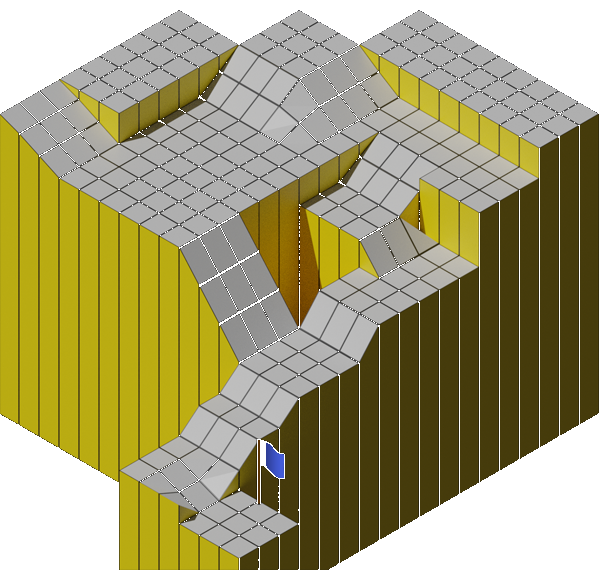
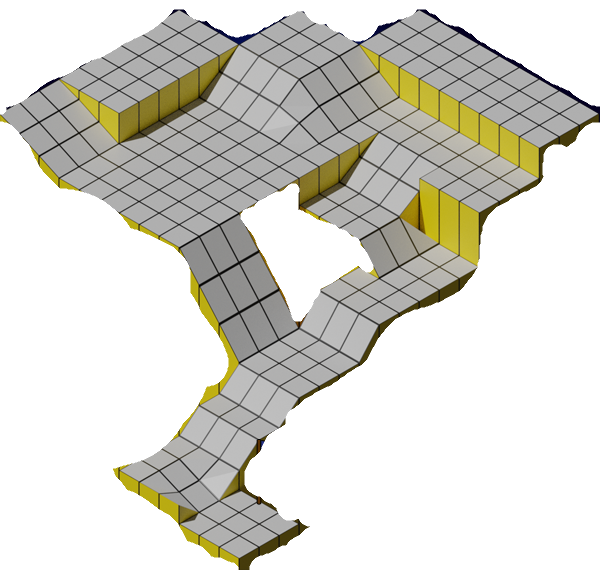
fix the out of bounces by making a new 3d map transparency

diff --git a/source-code-marble-madness/marble.py b/source-code-marble-madness/marble.py
@@ -1,6 +1,6 @@
 import pgzrun
 import pygame
-from pygame import image
+from pygame import image, mask
 from pgzero.builtins import Actor, keyboard, music, sounds
 
 # Initialize window size
@@ -19,8 +19,10 @@ marble = Actor('marble_still1', center=(300, 45))
 marbleh = Actor('marble_still1', center=(300, 60))
 marble.dir = marble.speed = 0
 
-# Load the 3D map as an actor
+# Load the 3D map as an actor and create a mask
 map3d = Actor('map3d', topleft=(0, 0))
+map_image = image.load('images/map3d.png')
+map_mask = mask.from_surface(map_image)
 
 debug = False
 timer = 30
@@ -118,6 +120,7 @@ def draw():
 
 def update():
     global timer, game_state, score, coinscore, enemy, target_index, shuriken_angle, coin_frame, coin_animation_counter
+
 
     # Handle music based on game state
     if game_state == 3:
@@ -251,7 +254,7 @@ def on_mouse_down(pos):
 def move_marble():
     global game_state, marble_frame, marble_animation_counter, current_direction
 
-    if marbleh.x < 0 or marbleh.x > WIDTH or marbleh.y < 0 or marbleh.y > HEIGHT:
+    if not marble_on_map3d():
         game_state = 6
 
     marbleh.x += marble.speed * marble.dir
@@ -260,6 +263,11 @@ def move_marble():
     marble.y = marbleh.y
 
     update_marble_animation()
+
+def marble_on_map3d():
+    # Check if the marble is within the non-transparent area of the map
+    marble_pos = (int(marble.x - map3d.left), int(marble.y - map3d.top))
+    return map_mask.get_at(marble_pos)
 
 def update_marble_animation():
     global marble_frame, marble_animation_counter, current_direction
